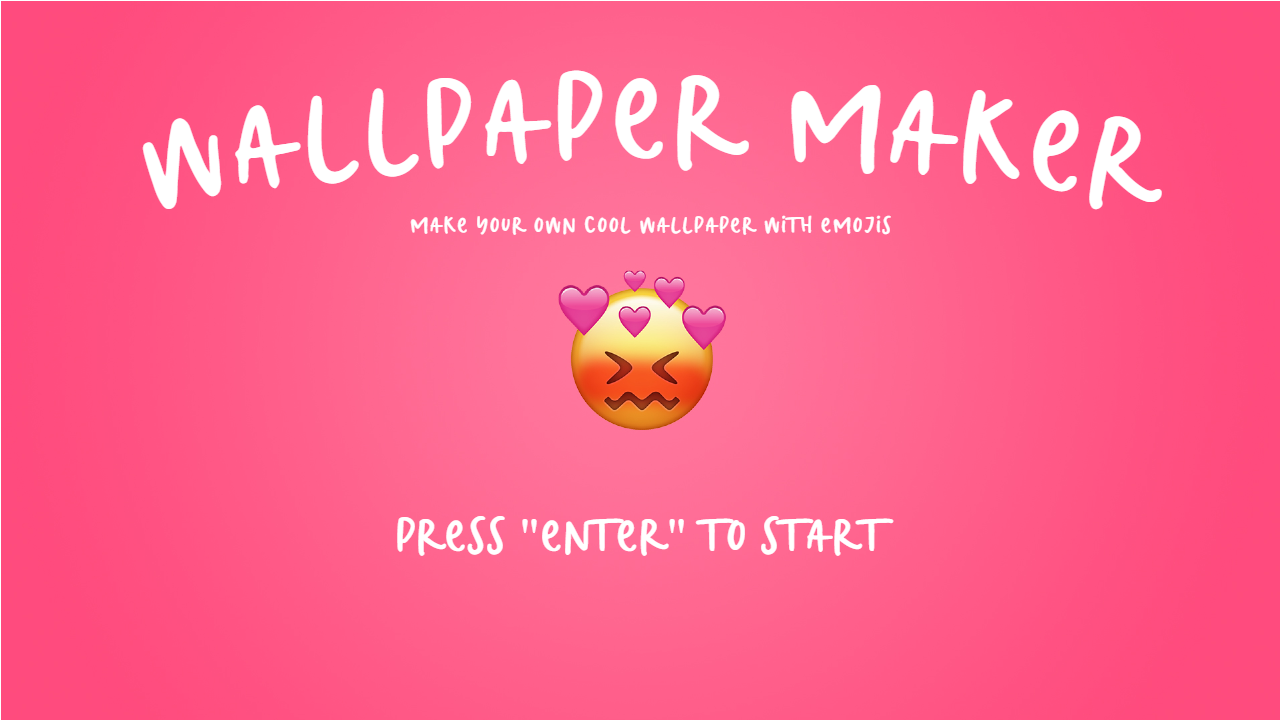
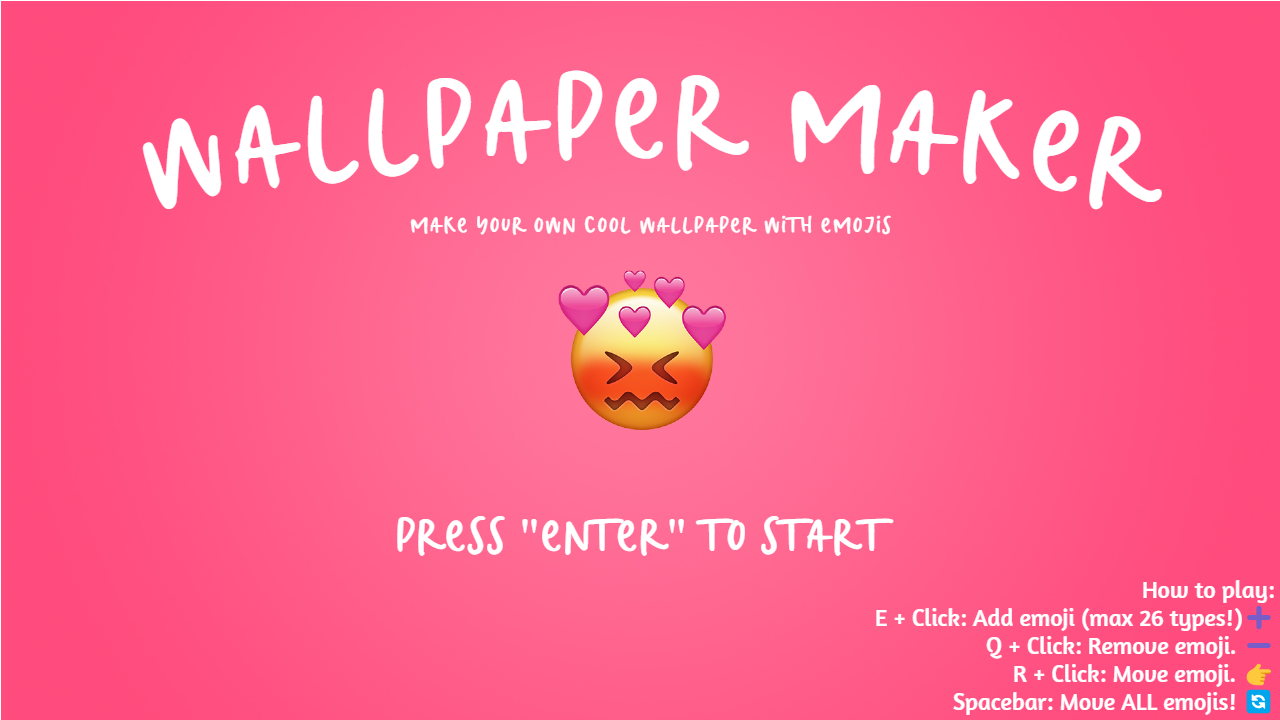
done

Changed region(s): [[0.6875, 0.7944, 1.0, 1.0]]

diff --git a/Game1.cs b/Game1.cs
@@ -29,7 +29,7 @@ namespace Topic_2___Lists_and_Loops
         MouseState mouseState, previousMouseState;
         KeyboardState keyboardState, previousKeyboardState;
 
-        bool newClick, newPress;
+        bool newClick;
 
         //load enum
         GameState gameState = GameState.Menu;
@@ -38,7 +38,7 @@ namespace Topic_2___Lists_and_Loops
         //random
         Random random = new Random();
 
-        int x, y;
+        
 
         public Game1()
         {
@@ -103,63 +103,84 @@ namespace Topic_2___Lists_and_Loops
             
             newClick = mouseState.LeftButton == ButtonState.Pressed && previousMouseState.LeftButton == ButtonState.Released;
 
-            //if "r" is pressed - Randomly moves emoji that already exists
-            if (keyboardState.IsKeyDown(Keys.R))
+
+            if (gameState == GameState.Menu)
             {
-                //and left is pressed
-                if (mouseState.LeftButton == ButtonState.Pressed)
+                //if enter is pressed go to game
+                if (keyboardState.IsKeyDown(Keys.Enter))
+                {
+                    gameState = GameState.Game;
+                }
+            }
+            if (gameState == GameState.Game)
+            {
+                //if esc is pressed go to menu
+                if (keyboardState.IsKeyDown(Keys.Escape))
+                {
+                    gameState = GameState.Menu;
+                }
+
+                //if "r" is pressed - Randomly moves emoji that already exists
+                if (keyboardState.IsKeyDown(Keys.R))
+                {
+                    //and left is pressed
+                    if (mouseState.LeftButton == ButtonState.Pressed)
+                    {
+                        for (int i = 0; i < emojiRect.Count; i++)
+                        {
+                            if (emojiRect[i].Contains(mouseState.Position))
+                            {
+                                emojiRect[i] = new Rectangle(random.Next(window.X, window.Width - 100), random.Next(window.Y, window.Height - 100), 100, 100);
+                            }
+                        }
+                    }
+
+                }
+
+                //if q is pressed remove emoji
+                if (keyboardState.IsKeyDown(Keys.Q))
+                {
+                    //and if left mouse is held
+                    if (mouseState.LeftButton == ButtonState.Pressed)
+                    {
+                        for (int i = 0; i < emojiRect.Count; i++)
+                        {
+                            if (emojiRect[i].Contains(mouseState.Position))
+                            {
+                                emojiRect.RemoveAt(i);
+                                emojitextures.RemoveAt(i);
+                                i--;
+                            }
+                        }
+                    }
+
+                }
+
+                //if e is pressed spawn in a emoji in the mouse position
+                if (keyboardState.IsKeyDown(Keys.E))
+                    //if mouse is PRESSED
+                    if (mouseState.LeftButton == ButtonState.Pressed && newClick)
+                        if (emojitextures.Count < 26)
+                        {
+                            emojiRect.Add(new Rectangle(mouseState.X - 50, mouseState.Y - 50, 100, 100));
+                            emojitextures.Add(Content.Load<Texture2D>($"emojipack/emoji({emojiRect.Count})"));
+                        }
+
+                //make space is pressed not held
+                if (keyboardState.IsKeyDown(Keys.Space) && previousKeyboardState.IsKeyUp(Keys.Space))
                 {
                     for (int i = 0; i < emojiRect.Count; i++)
                     {
-                        if (emojiRect[i].Contains(mouseState.Position))
-                        {
-                            emojiRect[i] = new Rectangle(random.Next(window.X, window.Width - 100), random.Next(window.Y, window.Height - 100), 100, 100);
-                        }
+                        emojiRect[i] = new Rectangle(random.Next(window.X, window.Width - 100), random.Next(window.Y, window.Height - 100), 100, 100);
                     }
                 }
-               
+
+                // Update previous keyboard state
+                previousKeyboardState = keyboardState;
+
+
             }
-
-            //if q is pressed remove emoji
-            if (keyboardState.IsKeyDown(Keys.Q))
-            {
-                //and if left mouse is held
-                if (mouseState.LeftButton == ButtonState.Pressed)
-                {
-                    for (int i = 0; i < emojiRect.Count; i++)
-                    {
-                        if (emojiRect[i].Contains(mouseState.Position))
-                        {
-                            emojiRect.RemoveAt(i);
-                            emojitextures.RemoveAt(i);
-                            i--;
-                        }
-                    }
-                }
-                
-            }
-
-            //if e is pressed spawn in a emoji in the mouse position
-            if (keyboardState.IsKeyDown(Keys.E))           
-                //if mouse is PRESSED
-                if (mouseState.LeftButton == ButtonState.Pressed && newClick)  
-                    if (emojitextures.Count < 26)
-                    {
-                        emojiRect.Add(new Rectangle(mouseState.X - 50, mouseState.Y - 50, 100, 100));
-                        emojitextures.Add(Content.Load<Texture2D>($"emojipack/emoji({emojiRect.Count})"));
-                    }
-
-            //make space is pressed not held
-            if (keyboardState.IsKeyDown(Keys.Space) && previousKeyboardState.IsKeyUp(Keys.Space))
-            {
-                for (int i = 0; i < emojiRect.Count; i++)
-                {
-                    emojiRect[i] = new Rectangle(random.Next(window.X, window.Width - 100), random.Next(window.Y, window.Height - 100), 100, 100);
-                }
-            }
-
-            // Update previous keyboard state
-            previousKeyboardState = keyboardState;
+            
  
             base.Update(gameTime);
         }
@@ -193,10 +214,6 @@ namespace Topic_2___Lists_and_Loops
 
                 _spriteBatch.End();
             }
-
-
-           
-
 
             base.Draw(gameTime);
         }
